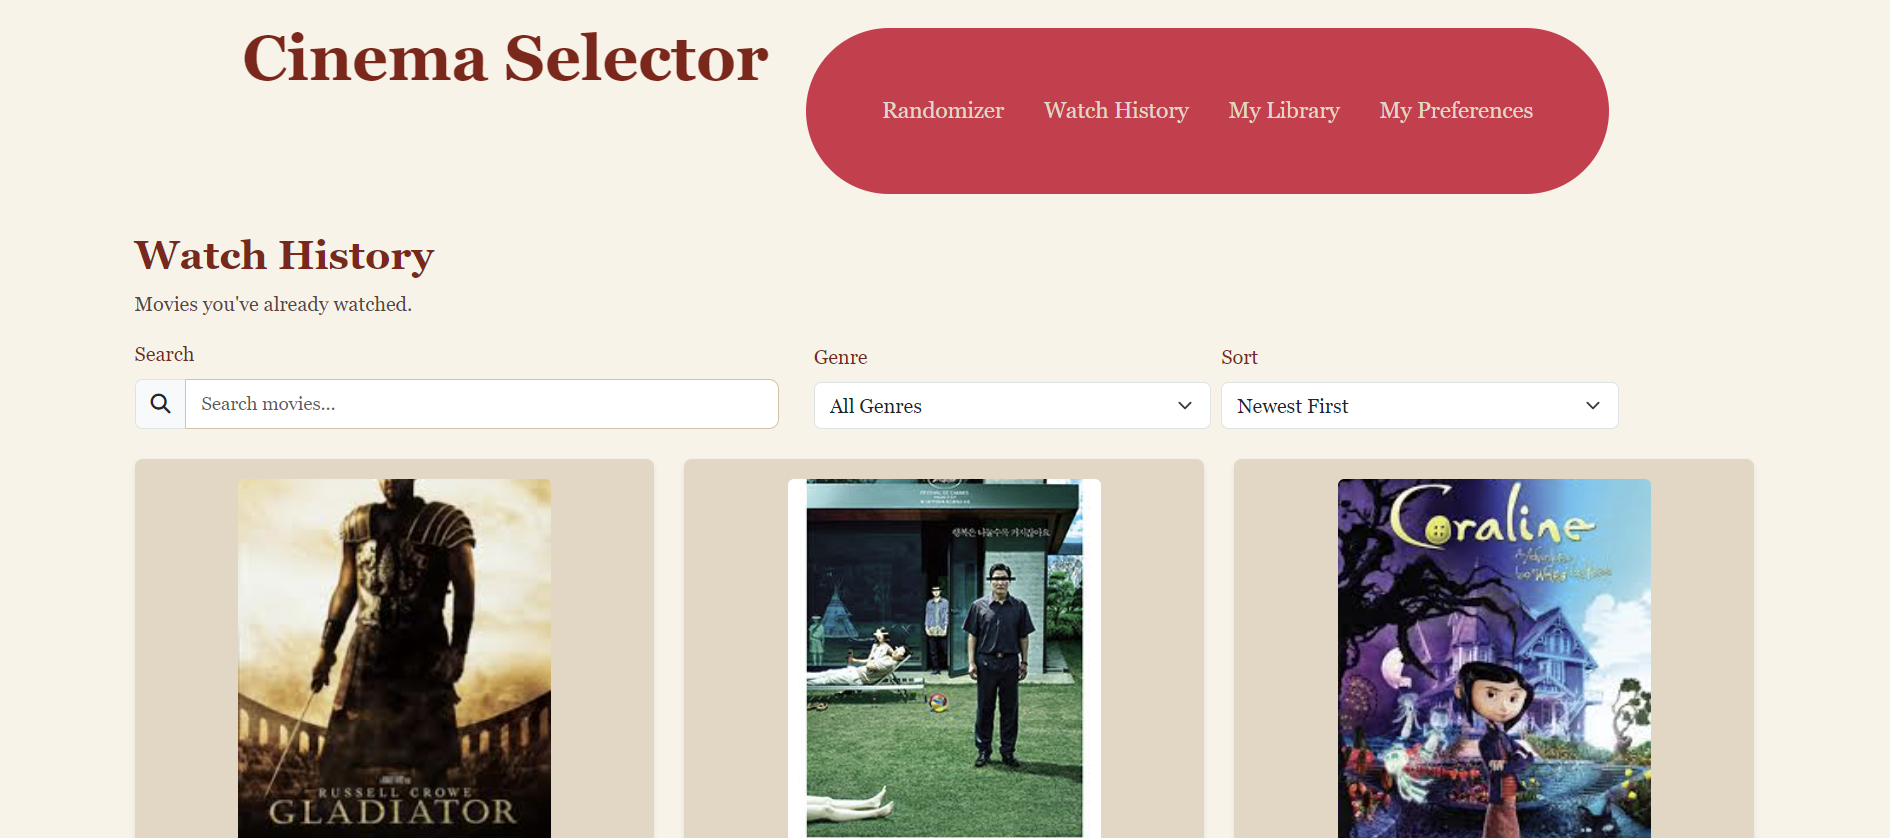
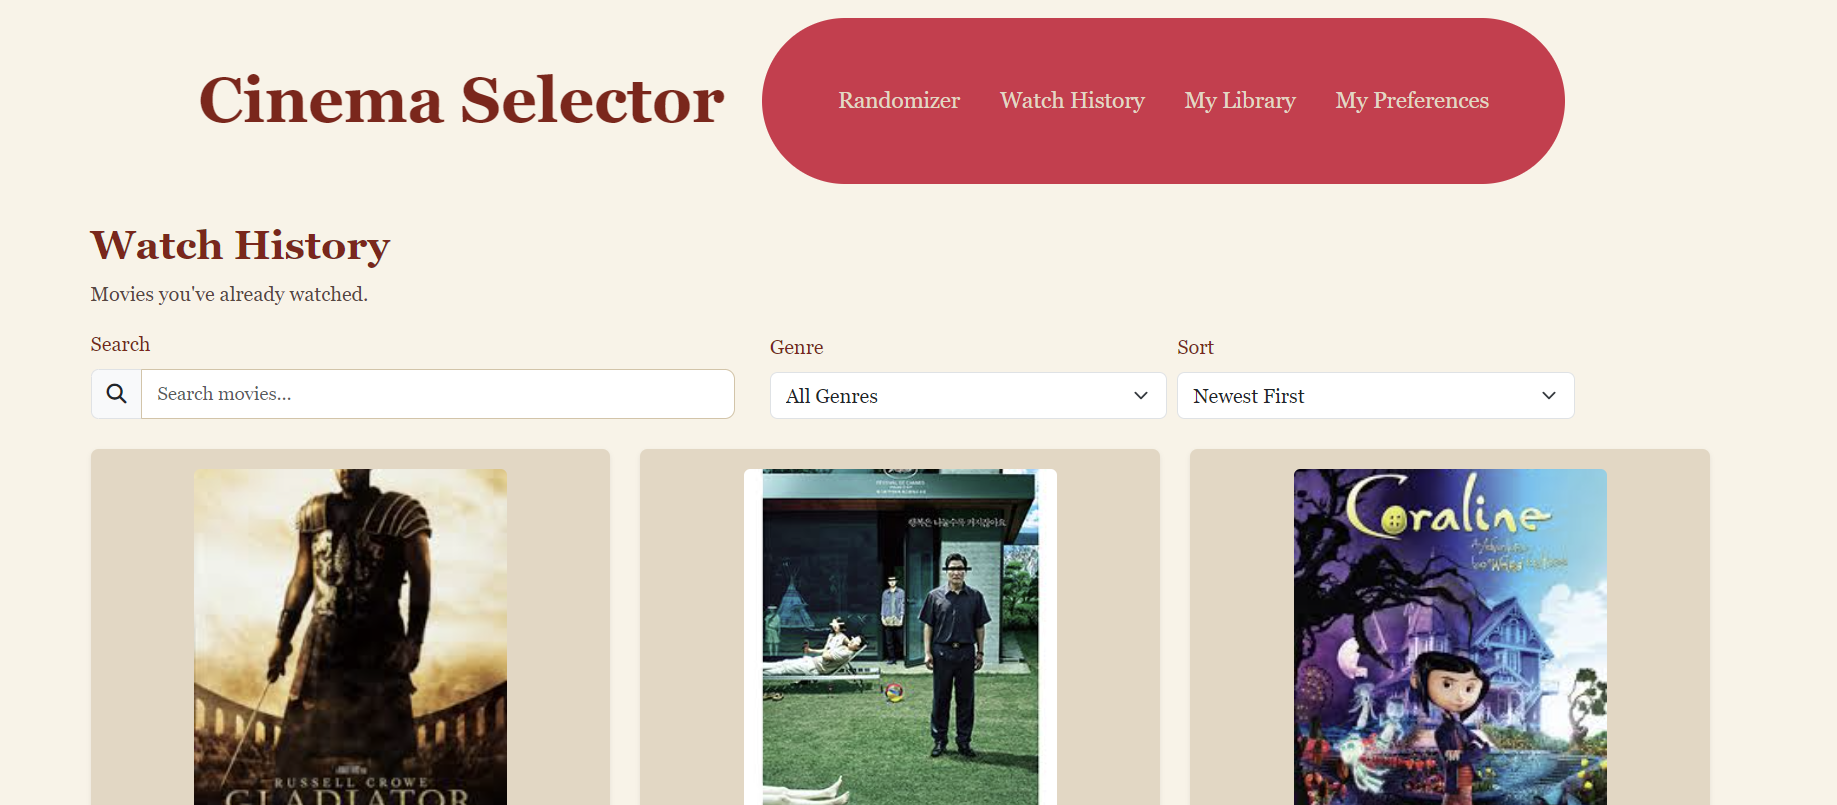
final edits till further notice

diff --git a/style.css b/style.css
@@ -36,6 +36,12 @@ p {
 header {
     display: flex;
     justify-content: center;
+    align-items: center;
+}
+
+header h1 {
+    margin: 0;
+    padding-top: 0;
 }
 
 
